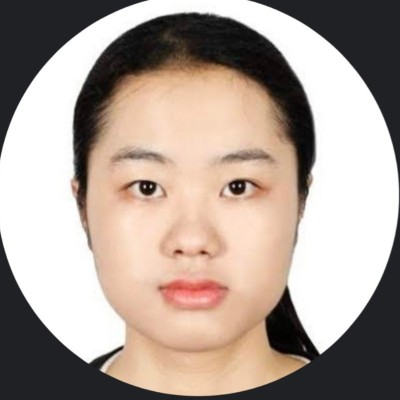
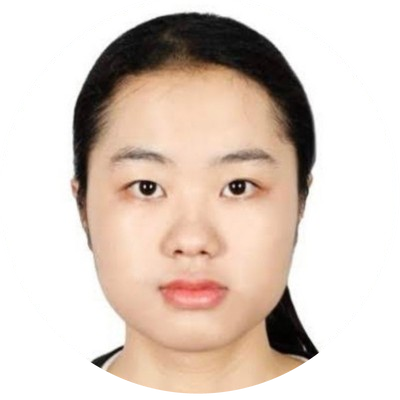
Home: scrollable Latest news, transparent photo background, drop Start here

Changed region(s): [[0.0, 0.0, 1.0, 1.0], [0.0, 0.0, 0.36, 0.39]]

diff --git a/content/home.md b/content/home.md
@@ -2,28 +2,17 @@
 
 <figure><img src=".gitbook/assets/yinuo-du.png" alt="Yinuo Du" width="180"><figcaption></figcaption></figure>
 
-
-
 ## Latest news
 
-* **2026-07** — Talk acceptance to Collective Intelligence
-* **2026-07** — Workshop paper acceptance to RAISE
-* **2026-06** — AAAI Summer Symposium at Seoul
-* **2026-04 —** Book chapter acceptance to&#x20;
-* **2025-09** — Joining UTEP CS Department
-* **2025-05** — PhD dissertation defense!&#x20;
-
-## Start here
-
-* [Research overview](research/overview.md)
-* [Projects](/broken/pages/kWtmVfRBhQF7O9cAUNa8)
-* [Tools](overview-1/)
-* [Teaching](overview-2/)
-* [Opportunities](overview-4/)
-* [Reading notes and blog](personal/overview.md)
-* [People and community](overview-3/)
-* [Open science and wellbeing](/broken/pages/osGjExKm3JlKJeUhtqBT)
-* [Statements](/broken/pages/raeBFsuHEu7qQCgxbtjq)
-* [Contact](home/contact.md)
+<div style="max-height:9.5em;overflow-y:auto;padding-right:0.75em;">
+<ul>
+<li><strong>2026-07</strong> — Talk acceptance to Collective Intelligence</li>
+<li><strong>2026-07</strong> — Workshop paper acceptance to RAISE</li>
+<li><strong>2026-06</strong> — AAAI Summer Symposium at Seoul</li>
+<li><strong>2026-04</strong> — Book chapter acceptance</li>
+<li><strong>2025-09</strong> — Joining UTEP CS Department</li>
+<li><strong>2025-05</strong> — PhD dissertation defense</li>
+</ul>
+</div>
 
 _Last updated: 2026-08_
